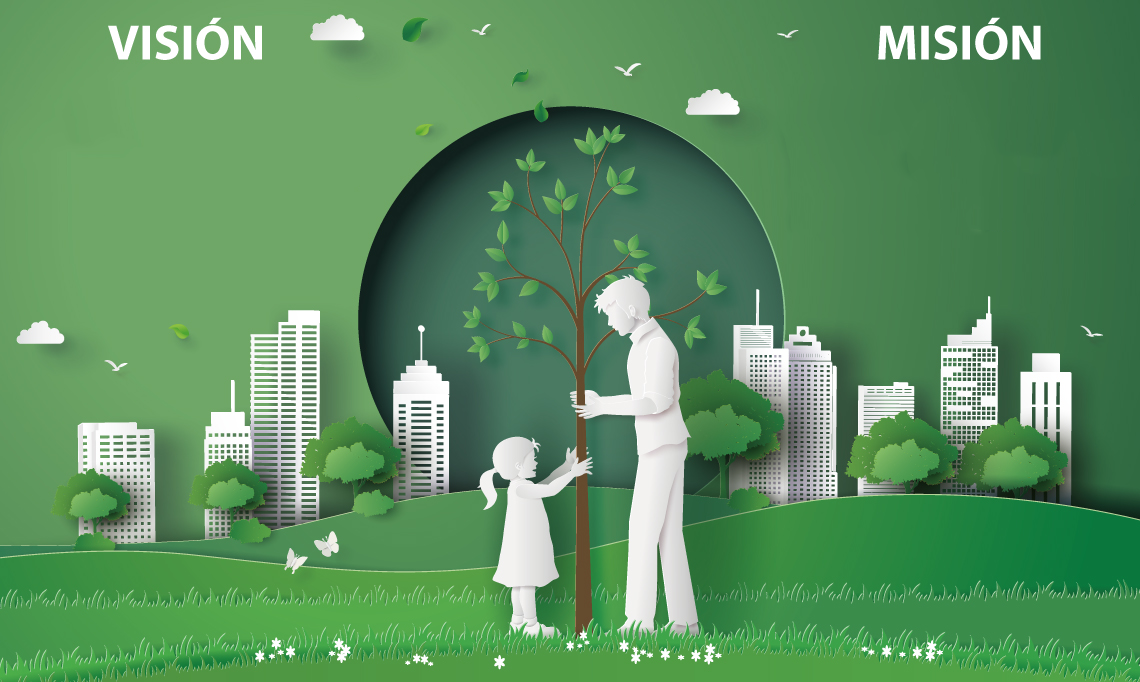
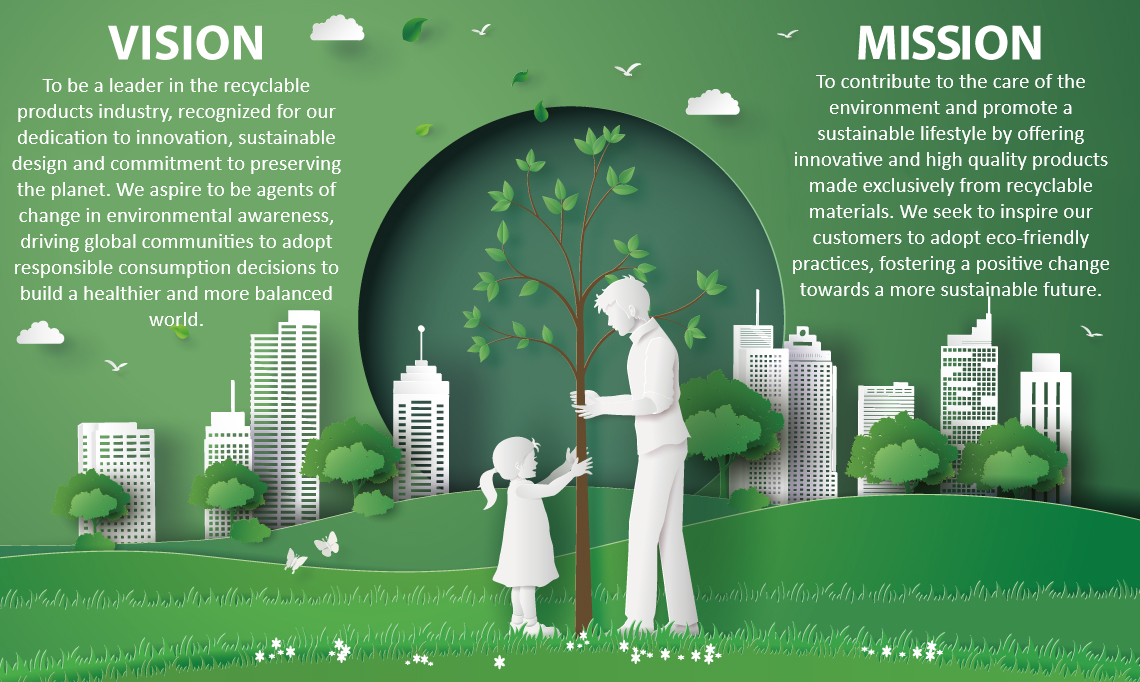
storePage reenderizada, aplicacion de estilos about y storePage

Changed region(s): [[0.0, 0.1232, 0.307, 0.4927], [0.7061, 0.0308, 0.9825, 0.4311]]

diff --git a/greenwave/src/app/about/page.jsx b/greenwave/src/app/about/page.jsx
@@ -1,57 +1,64 @@
 import data from "./team.json";
 import Image from "next/image";
+
 const About = () => {
   return (
-    <div>
-      <Image
-        src="/images/about.png"
-        alt="mision-visionImage"
-        width={1000}
-        height={800}
-      />
-      <h1>About team</h1>
-      {data.map((member) => (
-        <div>
-          <Image
-            src={member.image ? member.image : "/images/logo.png"}
-            alt={member.lastName}
-            width={300}
-            height={300}
-          />
-          <h4>
-            {member.name} {member.lastName}
-          </h4>
-          <h4>{member.profession}</h4>
-          <a href={member.socialMedia.linkedin} target="_blank">
+    <div className="text-center bg-cream-brown">
+      <div className="mb-4">
+        <Image
+          src="/images/about.png"
+          alt="mision-visionImage"
+          width={1000}
+          height={1000}
+          className="w-full"
+        />
+      </div>
+      <h1 className="text-3xl font-bold mb-6">About team</h1>
+      <div className="flex flex-wrap justify-center">
+        {data.map((member) => (
+          <div key={member.id} className="m-4 max-w-xs bg-white p-4 rounded-md">
             <Image
-              src="/images/linkedin.png"
-              alt="linkedinImage"
-              width={40}
-              height={40}
-              style={{ backgroundColor: "#ffffff" }}
+              src={member.image ? member.image : "/images/logo.png"}
+              alt={member.lastName}
+              width={300}
+              height={300}
+              className="rounded-full"
             />
-          </a>
-          <a href={member.socialMedia.github} target="_blank">
-            <Image
-              src="/images/github.png"
-              alt="githubImage"
-              width={40}
-              height={40}
-              style={{ backgroundColor: "#ffffff" }}
-            />
-          </a>
-          <a href={member.socialMedia.instagram} target="_blank">
-            <Image
-              src="/images/instagram.png"
-              alt="instagramImage"
-              width={40}
-              height={40}
-              style={{ backgroundColor: "#ffffff" }}
-            />
-          </a>
-        </div>
-      ))}
+            <h4 className="mt-4 text-lg font-semibold">
+              {member.name} {member.lastName}
+            </h4>
+            <h4 className="text-gray-500">{member.profession}</h4>
+            <div className="mt-2 flex justify-center space-x-2">
+              <a href={member.socialMedia.linkedin} target="_blank">
+                <Image
+                  src="/images/linkedin.png"
+                  alt="linkedinImage"
+                  width={40}
+                  height={40}
+                />
+              </a>
+              <a href={member.socialMedia.github} target="_blank">
+                <Image
+                  src="/images/github.png"
+                  alt="githubImage"
+                  width={40}
+                  height={40}
+                />
+              </a>
+              <a href={member.socialMedia.instagram} target="_blank">
+                <Image
+                  src="/images/instagram.png"
+                  alt="instagramImage"
+                  width={40}
+                  height={40}
+                />
+              </a>
+            </div>
+          </div>
+        ))}
+      </div>
     </div>
   );
 };
+
 export default About;

diff --git a/greenwave/src/app/components/navBar/NavBar.jsx b/greenwave/src/app/components/navBar/NavBar.jsx
@@ -1,0 +1,79 @@
+"use client";
+import Link from "next/link";
+import Button from "../button/Button";
+
+const NavBar = () => {
+  return (
+    <div>
+      <nav
+        className="py-3 items-center text-white flex justify-between"
+        style={{ backgroundColor: "#535E4A" }}
+      >
+        <div className="flex items-center">
+          <Link href="/">
+            <img
+              className="ml-2"
+              src="/images/Green-Wave.png"
+              alt=""
+              style={{ width: "100px" }}
+            />
+          </Link>
+        </div>
+
+        <section className="flex gap-10 items-center">
+          <input
+            type="text"
+            placeholder="Search..."
+            style={{ borderRadius: "1em 1em", width: "260px" }}
+            className="px-2 border rounded focus:outline-none focus:ring focus:border-blue-300 text-center"
+          />
+
+          <Link
+            className="text-xl hover:bg-hover hover:rounded-lg hover:text-black px-2 hover:transform hover:scale-110 transition-transform duration-300"
+            style={{ fontFamily: "font-serif" }}
+            href="/"
+          >
+            Home
+          </Link>
+
+          <Link
+            className="text-xl hover:bg-hover hover:rounded-lg hover:text-black px-2 hover:transform hover:scale-110 transition-transform duration-300"
+            style={{ fontFamily: "font-serif" }}
+            href="/about"
+          >
+            About
+          </Link>
+
+          <Link
+            className="text-xl hover:bg-hover hover:rounded-lg hover:text-black px-2 hover:transform hover:scale-110 transition-transform duration-300"
+            style={{ fontFamily: "font-serif" }}
+            href="/store"
+          >
+            Store
+          </Link>
+
+          <Link
+            className="text-xl hover:bg-hover hover:rounded-lg hover:text-black px-2 hover:transform hover:scale-110 transition-transform duration-300"
+            style={{ fontFamily: "font-serif" }}
+            href="/tips"
+          >
+            Tips
+          </Link>
+
+          <Button
+            className="py-1 px-10 mr-10 bg-hover hover:bg-boton"
+            style={{
+              fontFamily: "font-serif",
+              borderRadius: "2em 2em",
+              boxShadow: "2px 3px black",
+            }}
+            link={"/login"}
+            text="Login"
+          />
+        </section>
+      </nav>
+    </div>
+  );
+};
+
+export default NavBar;

diff --git a/greenwave/src/app/store/page.jsx b/greenwave/src/app/store/page.jsx
@@ -1,5 +1,46 @@
-export default function Store(){
-    return(
-        <h1>Store products</h1>
-    )
-}
+import products from "./products.json";
+import Card from "../components/card/Card";
+
+const Store = () => {
+  return (
+    <div className="container mx-auto p-4">
+      <div className="flex justify-center mb-4">
+        <div className="mr-4">
+          <label className="mr-2">Filter by: </label>
+          <select className="border rounded p-1">
+            <option value="Rating">Rating</option>
+            <option value="Materials">Materials</option>
+          </select>
+        </div>
+        <div className="mr-4">
+          <label className="mr-2">Order by name: </label>
+          <select className="border rounded p-1">
+            <option value="Ascendent">Ascendent</option>
+            <option value="Descendent">Descendent</option>
+          </select>
+        </div>
+        <div>
+          <label className="mr-2">Order by price: </label>
+          <select className="border rounded p-1">
+            <option value="Ascendent">Ascendent</option>
+            <option value="Descendent">Descendent</option>
+          </select>
+        </div>
+      </div>
+      <div className="grid grid-cols-1 sm:grid-cols-2 md:grid-cols-3 lg:grid-cols-3 gap-4 mx-auto">
+        {products.map((product) => (
+          <div key={product.id} className="flex justify-center">
+            <Card
+              id={product.id}
+              name={product.name}
+              img={product.img}
+              price={product.price}
+            />
+          </div>
+        ))}
+      </div>
+    </div>
+  );
+};
+
+export default Store;

diff --git a/greenwave/src/app/components/card/Card.jsx b/greenwave/src/app/components/card/Card.jsx
@@ -1,0 +1,56 @@
+import Image from "next/image";
+import Button from "../button/Button";
+
+const Card = ({ id, name, img, price }) => {
+  return (
+    <div className="bg-white rounded-md p-4 w-64 flex flex-col items-center">
+      <div className="w-8 h-8">
+        <Image
+          src="/images/corazon.png"
+          alt="corazonImage"
+          layout="responsive"
+          objectFit="contain"
+          className="rounded-md"
+          height={150}
+          width={150}
+        />
+      </div>
+      <div className="flex-grow flex-shrink-0">
+        <Image
+          src={img}
+          alt={name}
+          height={150}
+          width={150}
+          className="rounded-md w-full"
+        />
+      </div>
+      <div className="mt-2 flex-grow-0 flex flex-col items-center">
+        <h3 className="text-center">{name}</h3>
+        <h3 className="text-green-600 font-bold text-center">USD {price}</h3>
+        <Button
+          className="py-1 px-10 mr-10 bg-hover hover:bg-boton"
+          style={{
+            fontFamily: "font-serif",
+            borderRadius: "2em 2em",
+            boxShadow: "2px 3px black",
+          }}
+          link={`store/${id}`}
+          text="Buy"
+        />
+        <div className="w-24 h-24">
+          <Image
+            src="/images/estrellas.png"
+            alt="raitingImage"
+            layout="responsive"
+            objectFit="contain"
+            className="rounded-md"
+            height={150}
+            width={150}
+          />
+        </div>
+      </div>
+    </div>
+  );
+};
+
+export default Card;

diff --git a/greenwave/src/app/layout.jsx b/greenwave/src/app/layout.jsx
@@ -1,14 +1,14 @@
-import { Inter } from 'next/font/google'
-import './globals.css'
-import NavBar from './components/NavBar'
-import { Footer } from './components/footer/Footer'
+import { Inter } from "next/font/google";
+import "./globals.css";
+import NavBar from "./components/navBar/NavBar";
+import { Footer } from "./components/footer/Footer";
 
-const inter = Inter({ subsets: ['latin'] })
+const inter = Inter({ subsets: ["latin"] });
 
 export const metadata = {
-  title: 'Green wave',
-  description: 'Generated by create next app',
-}
+  title: "Green wave",
+  description: "Generated by create next app",
+};
 
 export default function RootLayout({ children }) {
   return (
@@ -16,8 +16,8 @@ export default function RootLayout({ children }) {
       <body className={inter.className}>
         <NavBar />
         {children}
-        <Footer/>
+        <Footer />
       </body>
     </html>
-  )
+  );
 }

diff --git a/greenwave/src/app/store/[id]/page.jsx b/greenwave/src/app/store/[id]/page.jsx
@@ -1,5 +1,5 @@
 "use client";
-import products from "./products.json";
+import products from "../products.json";
 import { useParams } from "next/navigation";
 import Image from "next/image";
 export default function Detail() {
